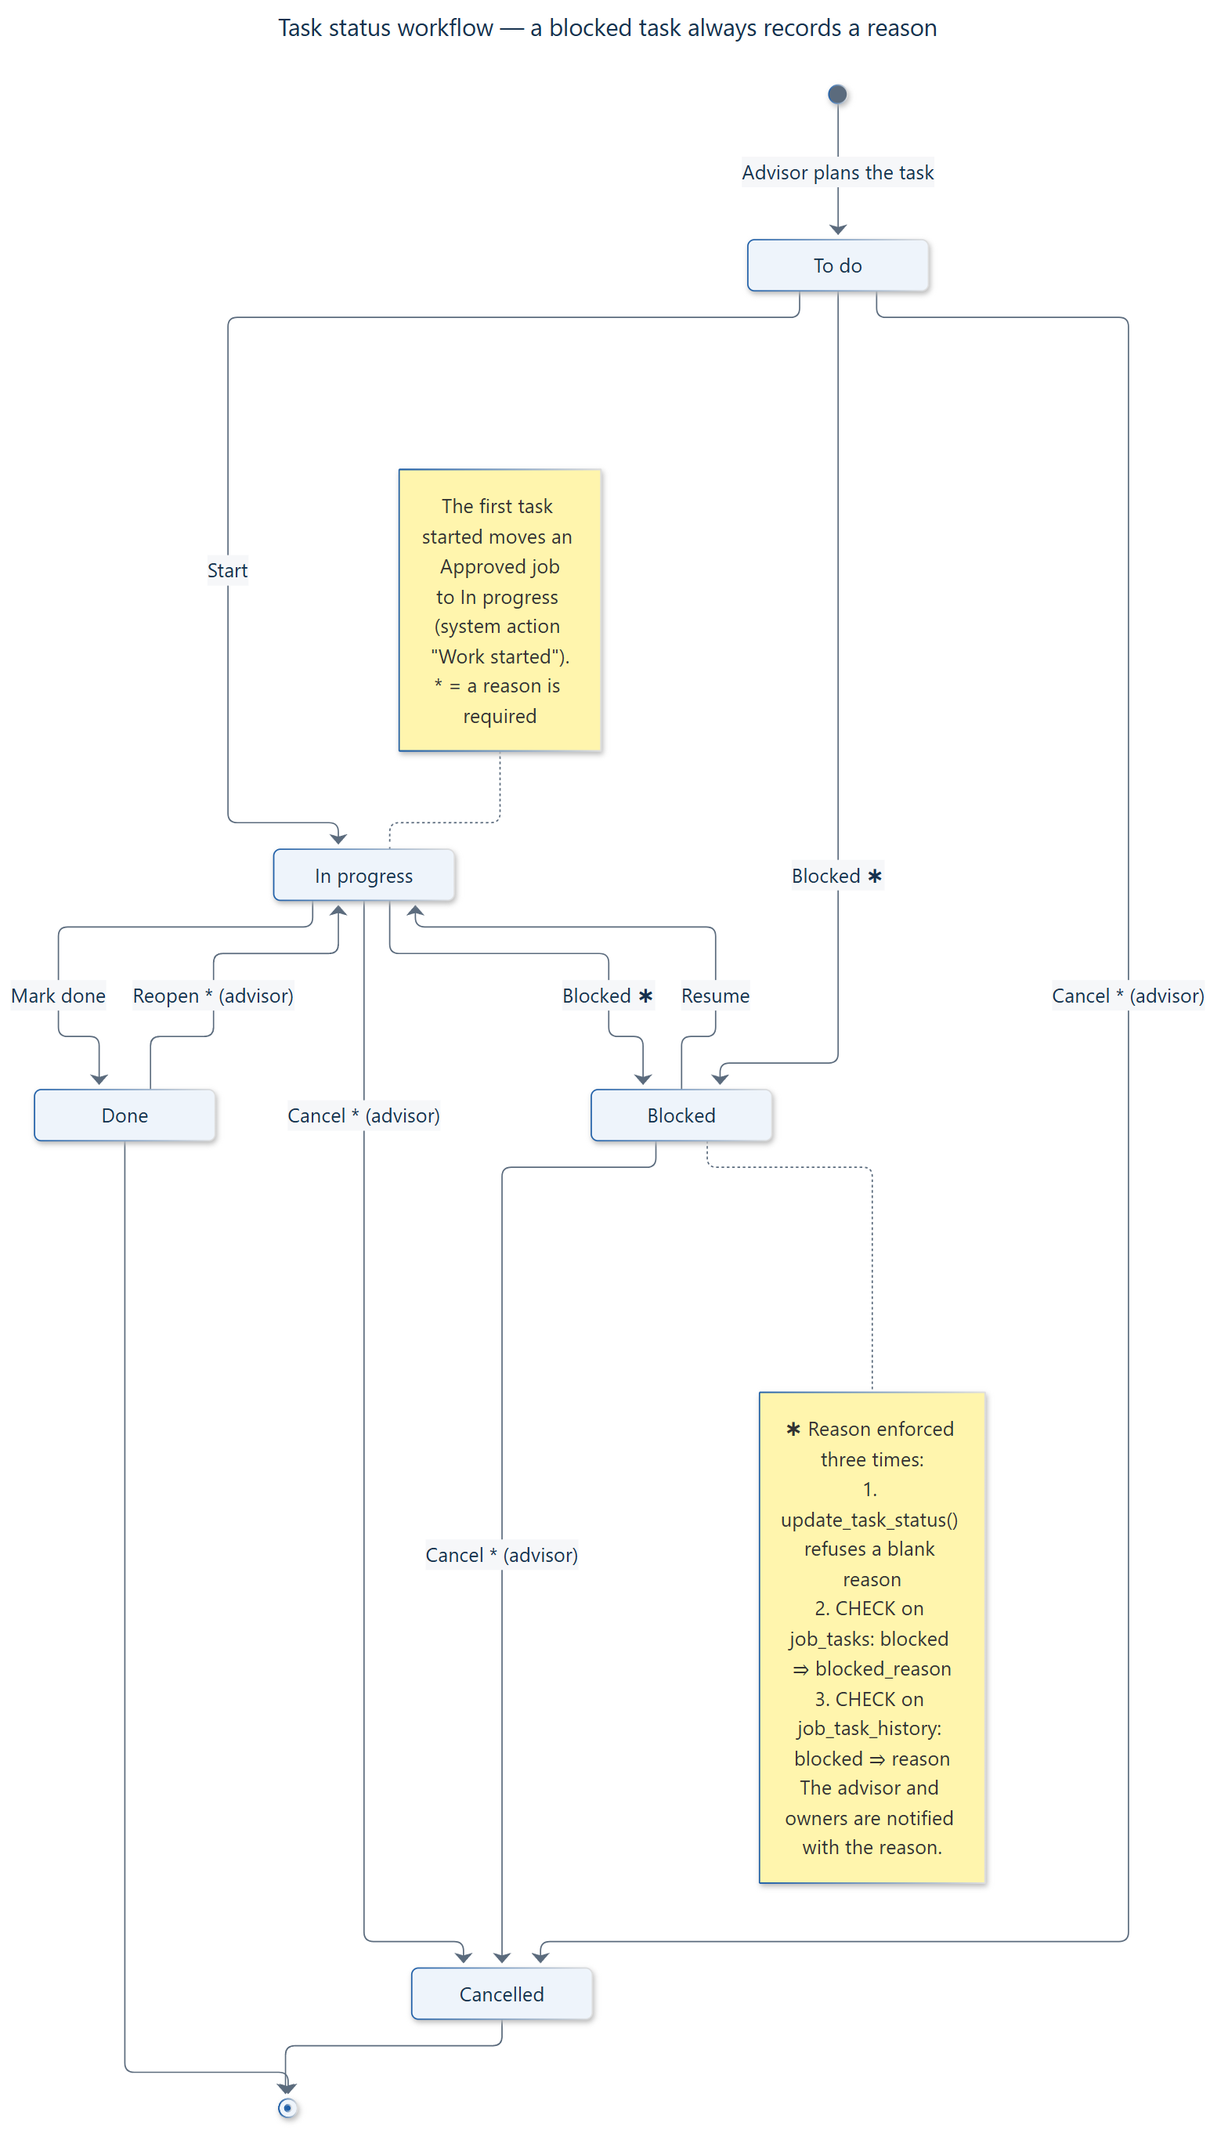
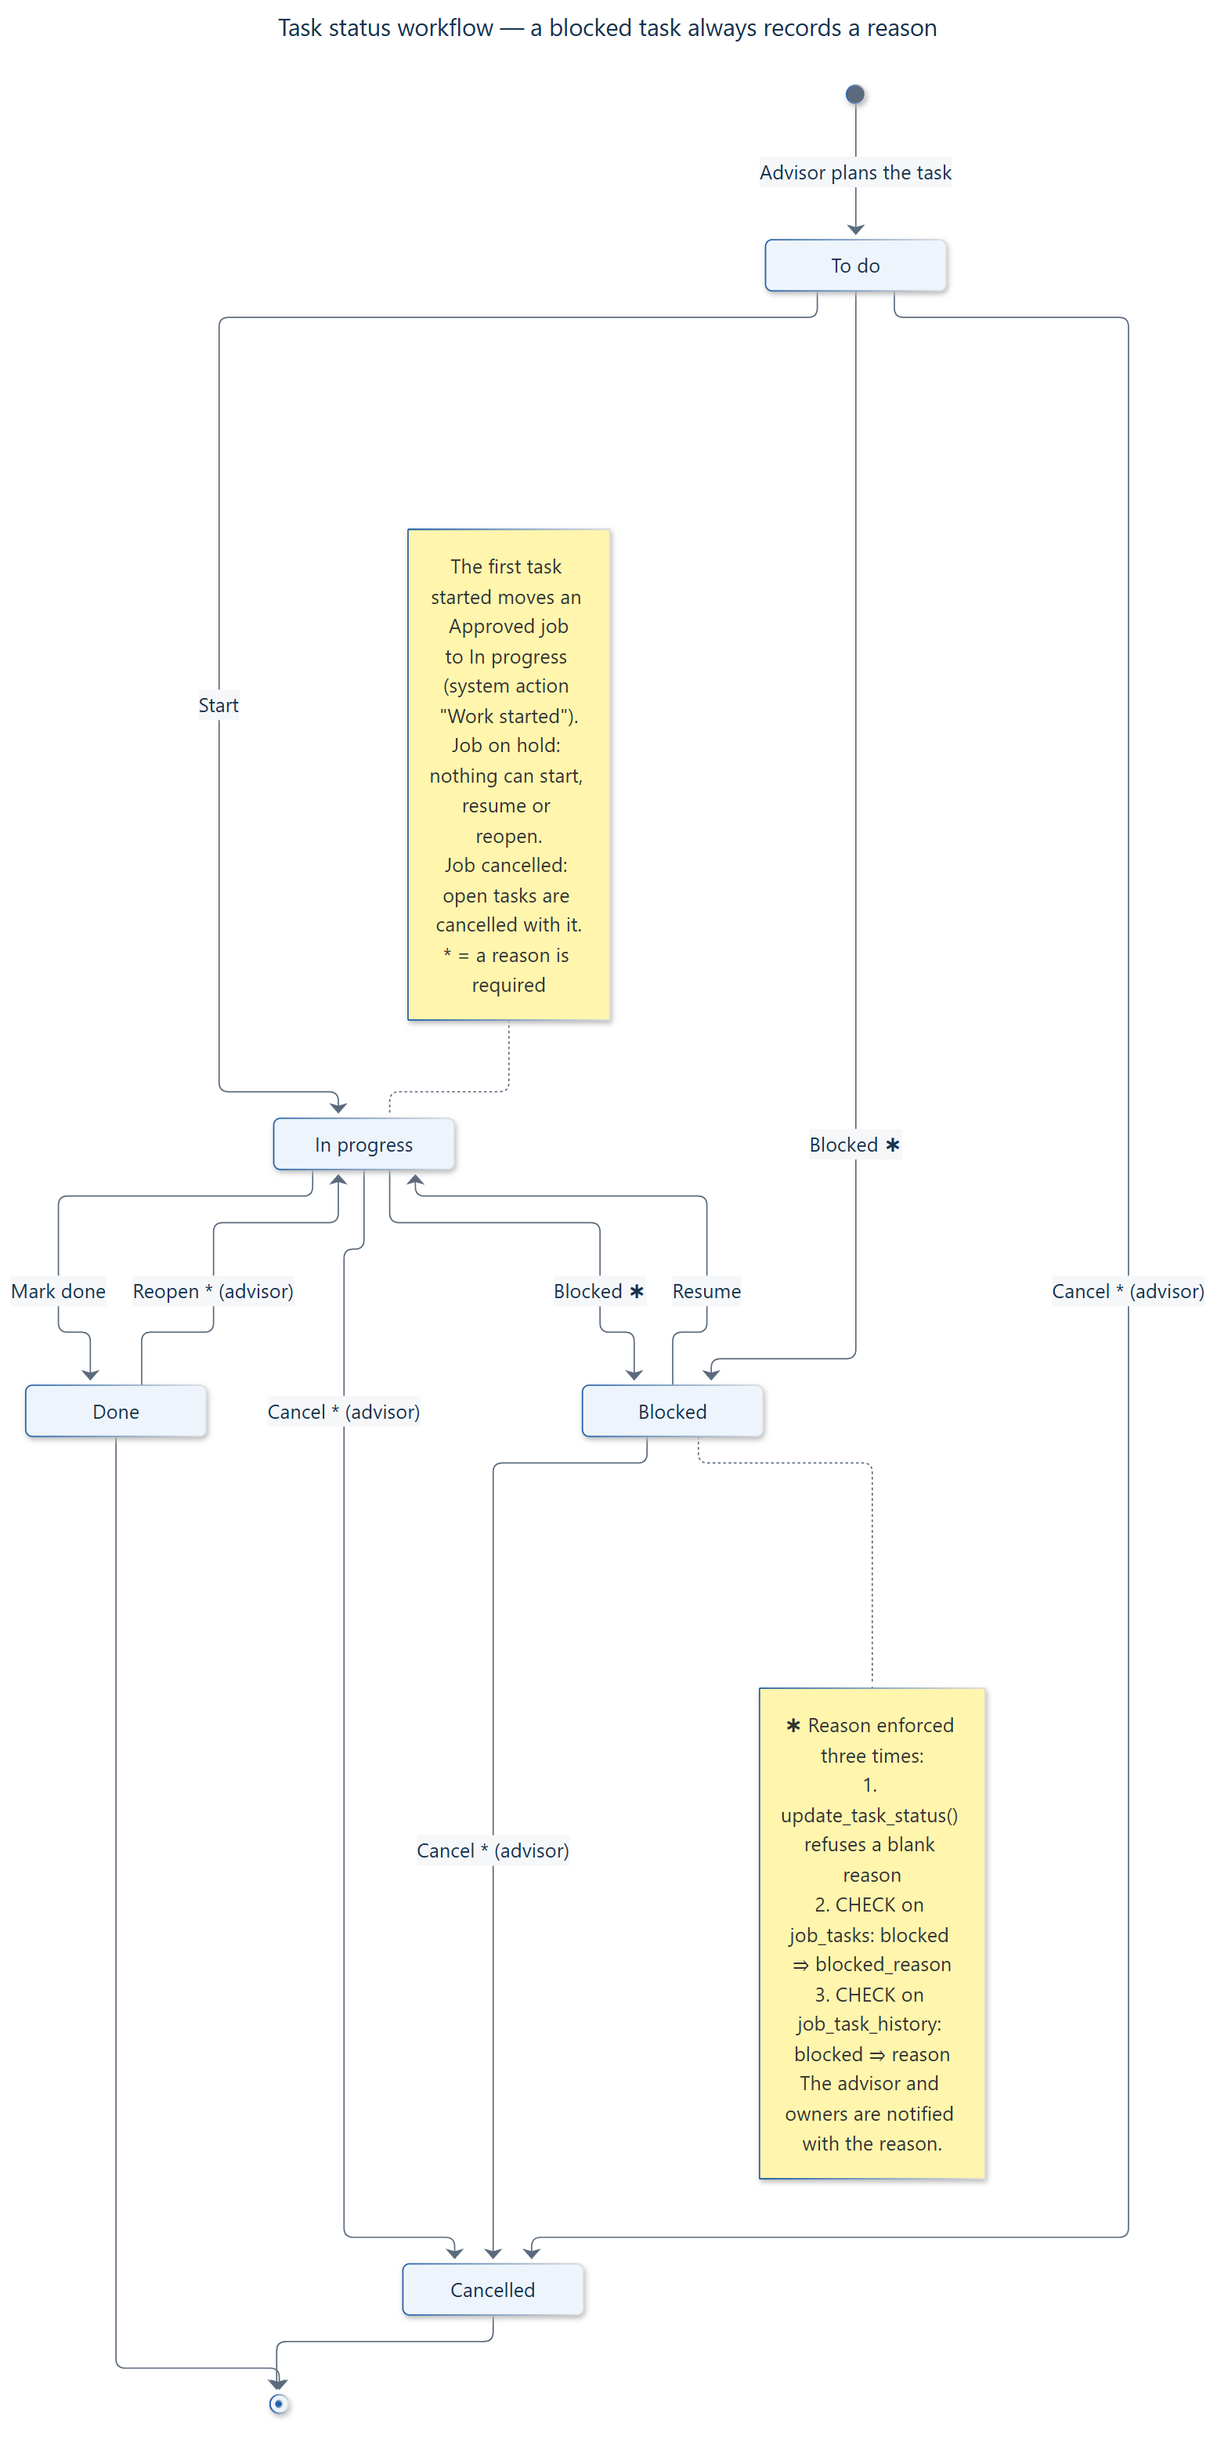
Phase 5 fixes: hold and cancel rules for tasks
- While a job is on hold, Start / Resume / Reopen are no longer offered
  (the database already refused them); the Work card explains why
- Cancelling a job cancels its open tasks in the same transaction, copies
  the job's reason into each task's history and notifies the mechanics;
  finished tasks stay done
- My jobs shows cancelled jobs clearly; notifications page subtitle covers
  task events
- Tests for both rules; docs and task diagram updated

diff --git a/tests/rls/tasks.test.ts b/tests/rls/tasks.test.ts
@@ -234,6 +234,70 @@ describe("task workflow", () => {
     expect(finished.error).toBeNull();
   });
 
+  it("stops tasks starting while the job is on hold", async () => {
+    const { job } = await approvedJob();
+    const running = await addTask(job);
+    const waiting = await addTask(job, mechanicA.id, "Bleed brake lines");
+    await move(mechanicA.client, running, "pending", "in_progress");
+    const hold = await advisorA.client.rpc("change_job_status", {
+      p_job: job,
+      p_action: "put_on_hold",
+      p_expected_status: "in_progress",
+      p_reason: "Customer asked to wait",
+    });
+    expect(hold.error).toBeNull();
+
+    expect((await move(mechanicA.client, waiting, "pending", "in_progress")).error?.message).toBe("job_on_hold");
+    expect((await move(mechanicA.client, running, "in_progress", "blocked", "Waiting for customer")).data).toBe("blocked");
+    expect((await move(mechanicA.client, running, "blocked", "in_progress")).error?.message).toBe("job_on_hold");
+  });
+
+  it("cancels open tasks with the job, keeping finished work", async () => {
+    const { job } = await approvedJob();
+    const done = await addTask(job, mechanicA.id, "Road test");
+    const running = await addTask(job);
+    const blocked = await addTask(job, mechanic2A.id, "Bleed brake lines");
+    const waiting = await addTask(job, null, "Wheel alignment");
+    await move(mechanicA.client, done, "pending", "in_progress");
+    await move(mechanicA.client, done, "in_progress", "completed");
+    await move(mechanicA.client, running, "pending", "in_progress");
+    await move(mechanic2A.client, blocked, "pending", "blocked", "Waiting for parts");
+
+    const cancel = await advisorA.client.rpc("change_job_status", {
+      p_job: job,
+      p_action: "cancel",
+      p_expected_status: "in_progress",
+      p_reason: "Customer took the car elsewhere",
+    });
+    expect(cancel.error).toBeNull();
+
+    expect((await taskRow(done))?.status).toBe("completed");
+    for (const t of [running, blocked, waiting]) {
+      expect(await taskRow(t)).toMatchObject({ status: "cancelled", blocked_reason: null });
+    }
+    const { data: history } = await admin
+      .from("job_task_history")
+      .select("task_id, to_status, reason")
+      .eq("job_card_id", job)
+      .eq("to_status", "cancelled");
+    expect(history).toHaveLength(3);
+    expect(history?.every((h) => h.reason === "Job cancelled: Customer took the car elsewhere")).toBe(true);
+
+    // Both mechanics with open work are told; nothing is left open for them.
+    for (const m of [mechanicA, mechanic2A]) {
+      const { data } = await m.client.from("notifications").select("kind, body").eq("link", `/my-jobs/${job}`).eq("kind", "job_cancelled");
+      expect(data).toEqual([{ kind: "job_cancelled", body: "Customer took the car elsewhere" }]);
+    }
+    const list = await mechanicA.client.rpc("my_assigned_jobs", { ws: wsA, p_include_closed: true });
+    const row = list.data?.find((j) => j.id === job);
+    expect(row).toMatchObject({ status: "cancelled", my_open_tasks: 0 });
+
+    // The tasks of a cancelled job stay closed.
+    expect((await move(advisorA.client, done, "completed", "in_progress", "Try again")).error?.message).toBe("job_not_in_work");
+    const edit = await advisorA.client.from("job_tasks").update({ priority: "urgent" }).eq("id", running);
+    expect(edit.error?.message).toBe("task_closed");
+  });
+
   it("lets only the assignee or an advisor move a task, and only advisors cancel or reopen", async () => {
     const { job } = await approvedJob();
     const task = await addTask(job);

diff --git a/src/lib/tasks.ts b/src/lib/tasks.ts
@@ -46,15 +46,20 @@ export type TaskMove = { to: TaskStatus; label: string; needsReason: boolean; to
 /**
  * The moves a person may make from a task's current status. Mirrors
  * update_task_status() in the database, which has the final say.
+ * While the job is on hold, nothing can be started, resumed or reopened.
  */
-export function taskMoves(status: TaskStatus, { manager, assignee }: { manager: boolean; assignee: boolean }): TaskMove[] {
+export function taskMoves(
+  status: TaskStatus,
+  { manager, assignee, jobOnHold = false }: { manager: boolean; assignee: boolean; jobOnHold?: boolean },
+): TaskMove[] {
   const worker = manager || assignee;
+  const canStart = !jobOnHold;
   const moves: [allowed: boolean, move: TaskMove][] = [
-    [worker && status === "pending", { to: "in_progress", label: "Start", needsReason: false, tone: "primary" }],
+    [worker && canStart && status === "pending", { to: "in_progress", label: "Start", needsReason: false, tone: "primary" }],
     [worker && status === "in_progress", { to: "completed", label: "Mark done", needsReason: false, tone: "primary" }],
-    [worker && status === "blocked", { to: "in_progress", label: "Resume", needsReason: false, tone: "primary" }],
+    [worker && canStart && status === "blocked", { to: "in_progress", label: "Resume", needsReason: false, tone: "primary" }],
     [worker && (status === "pending" || status === "in_progress"), { to: "blocked", label: "Blocked", needsReason: true, tone: "secondary" }],
-    [manager && status === "completed", { to: "in_progress", label: "Reopen", needsReason: true, tone: "secondary" }],
+    [manager && canStart && status === "completed", { to: "in_progress", label: "Reopen", needsReason: true, tone: "secondary" }],
     [manager && OPEN_TASK.includes(status), { to: "cancelled", label: "Cancel task", needsReason: true, tone: "danger" }],
   ];
   return moves.filter(([allowed]) => allowed).map(([, move]) => move);

diff --git a/src/app/(app)/my-jobs/page.tsx b/src/app/(app)/my-jobs/page.tsx
@@ -76,13 +76,17 @@ export default async function MyJobsPage({ searchParams }: PageProps<"/my-jobs">
                       <span className="text-slate-500">Next:</span> {j.next_task}
                     </p>
                   ) : (
-                    <p className="mt-3 text-sm text-slate-600">Your tasks here are done.</p>
+                    <p className="mt-3 text-sm text-slate-600">
+                      {j.status === "cancelled" ? "Job cancelled — no work left for you." : "Your tasks here are done."}
+                    </p>
                   )}
                   <div className="mt-3 flex flex-wrap items-center gap-1.5 text-xs">
                     <span className="text-slate-500">{j.job_number}</span>
-                    <Badge tone="muted">
-                      {Number(j.my_open_tasks)} open of {Number(j.my_total_tasks)}
-                    </Badge>
+                    {Number(j.my_total_tasks) > 0 ? (
+                      <Badge tone="muted">
+                        {Number(j.my_open_tasks)} open of {Number(j.my_total_tasks)}
+                      </Badge>
+                    ) : null}
                     {Number(j.my_blocked_tasks) > 0 ? <Badge tone="warning">{Number(j.my_blocked_tasks)} blocked</Badge> : null}
                     {j.top_priority === "urgent" || j.top_priority === "high" ? (
                       <Badge tone="warning">{PRIORITY_LABELS[j.top_priority]}</Badge>

diff --git a/src/app/(app)/my-jobs/[id]/page.tsx b/src/app/(app)/my-jobs/[id]/page.tsx
@@ -122,7 +122,7 @@ export default async function MyJobPage({ params }: PageProps<"/my-jobs/[id]">) 
       </div>
 
       {job.status === "on_hold" ? (
-        <Alert tone="info">This job is on hold. Ask {job.advisor ?? "the service advisor"} before continuing.</Alert>
+        <Alert tone="info">This job is on hold, so tasks can&apos;t be started or resumed. Ask {job.advisor ?? "the service advisor"} before continuing.</Alert>
       ) : job.status === "quality_check" || job.status === "ready_for_delivery" ? (
         <Alert tone="success">Work is finished and with the advisor for quality check and delivery.</Alert>
       ) : null}
@@ -130,7 +130,7 @@ export default async function MyJobPage({ params }: PageProps<"/my-jobs/[id]">) 
       <Card className="p-4 sm:p-5">
         <h2 className="mb-3 text-base font-semibold text-slate-900">Tasks</h2>
         {tasks.length ? (
-          <TaskList jobId={job.id} tasks={tasks} userId={ctx.userId} manager={manager} large canChange={canWork} />
+          <TaskList jobId={job.id} tasks={tasks} userId={ctx.userId} manager={manager} large canChange={canWork} jobOnHold={job.status === "on_hold"} />
         ) : (
           <p className="text-sm text-slate-600">No tasks on this job.</p>
         )}

diff --git a/src/app/(app)/jobs/[id]/work-panel.tsx b/src/app/(app)/jobs/[id]/work-panel.tsx
@@ -61,6 +61,11 @@ export function WorkPanel({
               ) : null}
             </div>
           ) : null}
+          {status === "on_hold" && live.some((t) => t.status !== "completed") ? (
+            <Alert tone="info">
+              The job is on hold: tasks can be blocked, finished or cancelled, but not started or resumed until you resume the job.
+            </Alert>
+          ) : null}
           {allDone && status === "in_progress" ? (
             <Alert tone="success">All tasks are done. Send the job to quality check when you&apos;re ready.</Alert>
           ) : null}
@@ -73,7 +78,7 @@ export function WorkPanel({
             <p className="text-sm text-slate-600">No tasks yet. Add the work the mechanics should do.</p>
           ) : null}
 
-          <TaskList jobId={jobId} tasks={tasks} userId={userId} manager mechanics={mechanics} canChange={canPlan} />
+          <TaskList jobId={jobId} tasks={tasks} userId={userId} manager mechanics={mechanics} canChange={canPlan} jobOnHold={status === "on_hold"} />
 
           {canPlan ? (
             <details className="group rounded-md ring-1 ring-slate-200 open:p-4" open={tasks.length === 0 && !untaskedLines.length}>

diff --git a/src/components/tasks/task-list.tsx b/src/components/tasks/task-list.tsx
@@ -16,6 +16,7 @@ export function TaskList({
   mechanics = [],
   large = false,
   canChange = true,
+  jobOnHold = false,
 }: {
   jobId: string;
   tasks: TaskView[];
@@ -26,6 +27,8 @@ export function TaskList({
   large?: boolean;
   /** False while the job isn't at a stage where tasks can move (e.g. quality check). */
   canChange?: boolean;
+  /** On hold: tasks can be blocked, finished or cancelled, but not started or resumed. */
+  jobOnHold?: boolean;
 }) {
   const [editing, setEditing] = useState<string | null>(null);
   if (tasks.length === 0) return null;
@@ -33,7 +36,7 @@ export function TaskList({
   return (
     <ul className="divide-y divide-slate-100">
       {tasks.map((t) => {
-        const moves = canChange ? taskMoves(t.status, { manager, assignee: t.assigneeId === userId }) : [];
+        const moves = canChange ? taskMoves(t.status, { manager, assignee: t.assigneeId === userId, jobOnHold }) : [];
         const mine = t.assigneeId === userId;
         return (
           <li key={t.id} className={cx("py-4 first:pt-0 last:pb-0", t.status === "cancelled" && "opacity-60")}>

diff --git a/src/lib/tasks.test.ts b/src/lib/tasks.test.ts
@@ -29,6 +29,14 @@ describe("taskMoves", () => {
     expect(moves("cancelled", advisor)).toEqual([]);
   });
 
+  it("offers no way to start, resume or reopen while the job is on hold", () => {
+    const onHold = { manager: true, assignee: true, jobOnHold: true };
+    expect(moves("pending", onHold)).toEqual(["Blocked->blocked", "Cancel task->cancelled"]);
+    expect(moves("in_progress", onHold)).toEqual(["Mark done->completed", "Blocked->blocked", "Cancel task->cancelled"]);
+    expect(moves("blocked", onHold)).toEqual(["Cancel task->cancelled"]);
+    expect(moves("completed", onHold)).toEqual([]);
+  });
+
   it("gives other mechanics nothing to press", () => {
     expect(moves("pending", { manager: false, assignee: false })).toEqual([]);
   });

diff --git a/src/app/(app)/notifications/page.tsx b/src/app/(app)/notifications/page.tsx
@@ -22,7 +22,7 @@ export default async function NotificationsPage() {
     <>
       <PageHeader
         title="Notifications"
-        description="Customer decisions on estimates, for jobs you advise and for owners."
+        description="Updates on your jobs and tasks: estimate decisions, new and blocked work, finished and cancelled jobs."
         actions={
           unread ? (
             <form action={markAllRead}>

diff --git a/docs/features/14-tasks-and-assignment.md b/docs/features/14-tasks-and-assignment.md
@@ -73,7 +73,11 @@ work and its reasons on the job card, and the job moves forward on its own when 
 - A task needs an assignee before it can start, block or complete.
 - Tasks are planned and moved only while the job is *Approved*, *Awaiting assignment*, *In progress* or
   *On hold*. From quality check on they are read-only; **Send back for rework** reopens the job for work.
-- On an *On hold* job tasks can be blocked or completed but not started or resumed.
+- On an *On hold* job tasks can be blocked, completed or cancelled but not started, resumed or
+  reopened. The Start / Resume / Reopen buttons are hidden and the Work card explains why.
+- **Cancelling the job cancels its open tasks** (To do, In progress, Blocked) in the same transaction
+  (trigger `cancel_tasks_with_job`). Each task's history gets "Job cancelled: <the job's reason>", and
+  every mechanic who still had open work is notified. Finished tasks stay *Done*.
 - A job can't move to *Quality check* while any task is open (trigger `guard_job_work_finished`).
 - Stale screens are caught: each move carries the status the person saw (`status_changed`).
 - Done and cancelled tasks can't be edited; reopen first. The approved line a task came from can't change.
@@ -101,7 +105,7 @@ work and its reasons on the job card, and the job moves forward on its own when 
 
 ## Code
 
-- Migration `20261118000001_mechanic_tasks.sql`.
+- Migrations `20261118000001_mechanic_tasks.sql`, `20261119000001_cancel_tasks_with_job.sql`.
 - `src/lib/tasks.ts` (labels, `taskMoves()` — mirrors the database rules, schemas, error messages),
   `src/lib/work.ts` (loads tasks, parts used and task history for a job).
 - `src/app/(app)/jobs/task-actions.ts` (server actions), `src/app/(app)/jobs/[id]/work-panel.tsx`,
@@ -116,7 +120,8 @@ work and its reasons on the job card, and the job moves forward on its own when 
   *To do* and *In progress*); "can't be bypassed by writing the status directly" (no column grant; guard
   trigger even for the service role; both CHECK constraints); "keeps every block and its reason in the
   task history"; "tells the advisor what is blocking the work".
-- Workflow — first task moves the job to *In progress*; quality check refused while tasks are open;
+- Workflow — first task moves the job to *In progress*; nothing starts or resumes while the job is on
+  hold; cancelling the job cancels open tasks with its reason, keeps finished ones, and tells the mechanics; quality check refused while tasks are open;
   only the assignee or an advisor moves a task, only advisors cancel or reopen; stale and invalid moves
   refused; assignees must be able to update tasks; no tasks before approval; create-from-estimate runs
   once and skips cancelled work; the mechanic is notified.

diff --git a/docs/features/13-notifications.md b/docs/features/13-notifications.md
@@ -15,6 +15,7 @@ customer's decision on an estimate, new work for a mechanic, a blocked task, and
 | Customer decides on an estimate (link, or recorded by staff) | The job's service advisor and every active owner, except whoever made the change |
 | A task is assigned or reassigned to someone | That person (not when they assign it to themselves); opens their [My jobs](15-mechanic-my-jobs.md) view |
 | A task is blocked | The job's service advisor and every active owner, except whoever blocked it — with the reason |
+| A job is cancelled while tasks are open | Each mechanic who still had open work on it (not whoever cancelled it) — with the job's reason |
 | The last open task is completed or cancelled | The job's service advisor and every active owner, except whoever made the change — "ready for quality check" |
 
 ## How it works

diff --git a/docs/features/15-mechanic-my-jobs.md b/docs/features/15-mechanic-my-jobs.md
@@ -33,7 +33,9 @@ their tasks, record parts they fitted, take photos and leave notes for the team.
 - **Photos:** mechanics can add photos (default type *Inspection finding*); only advisors remove them.
 - **Notes:** mechanics' notes are always *staff only*. They see the job's staff-only notes, not notes
   written for the customer.
-- Banners: *On hold* ("ask the advisor before continuing") and *Quality check / Ready* ("work is finished").
+- A cancelled job shows "Job cancelled — no work left for you" under **Include finished**; its tasks
+  were cancelled with the job.
+- Banners: *On hold* (tasks can't be started or resumed; "ask the advisor before continuing") and *Quality check / Ready* ("work is finished").
 
 ## Rules
 
